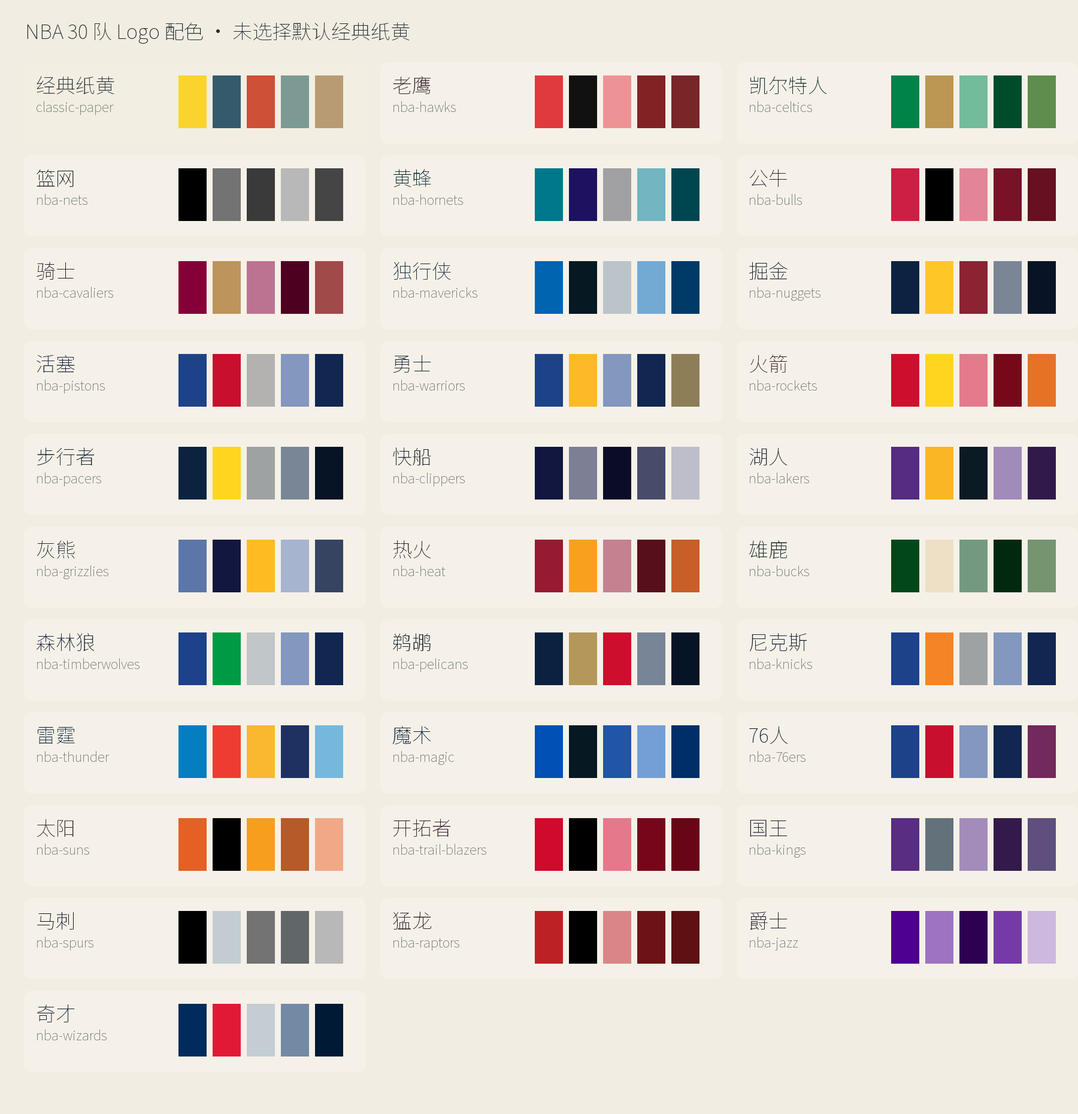
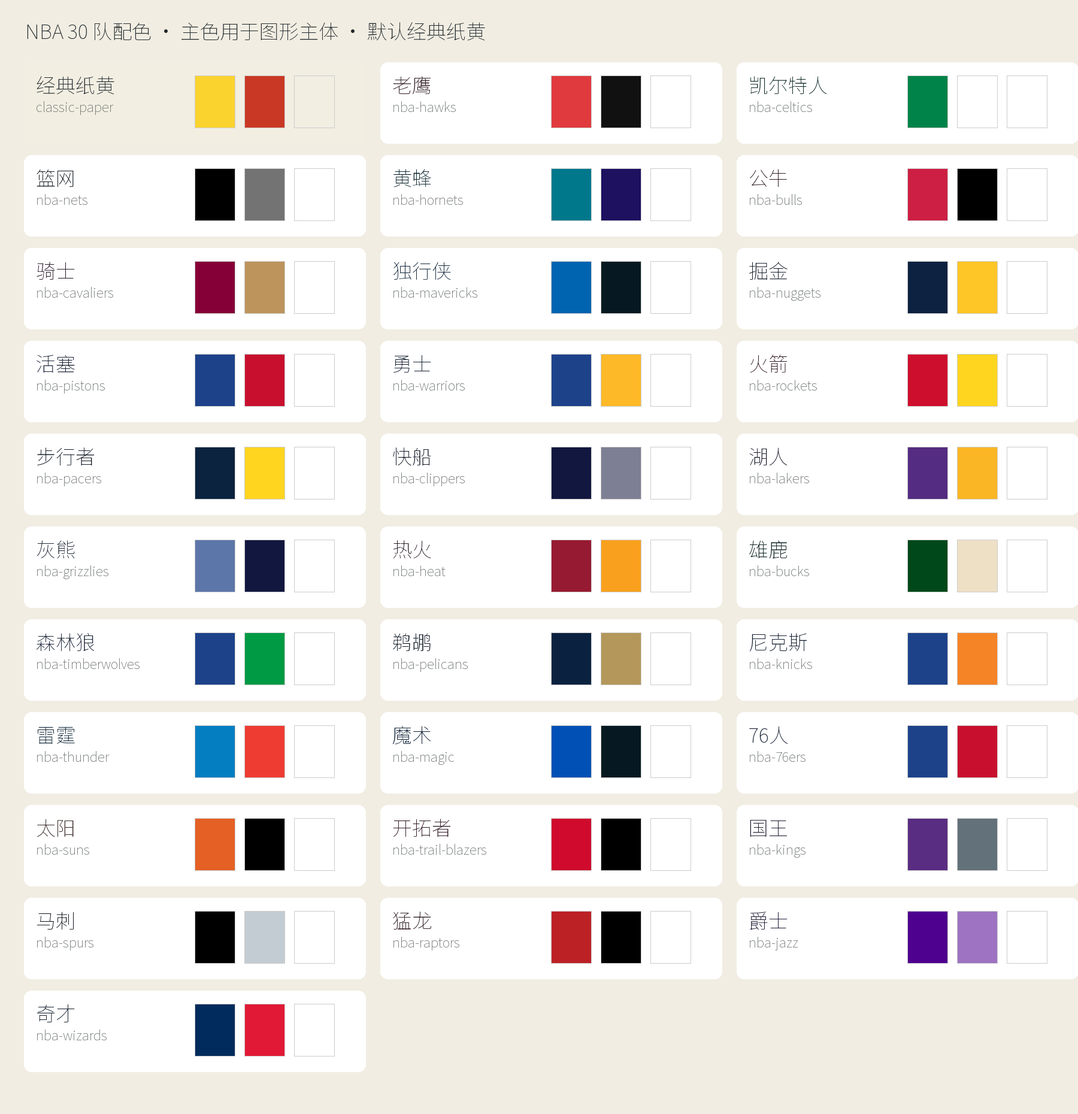
v2.3: keep every table in one chart and unify combo/scatter rendering

diff --git a/scripts/make_video.py b/scripts/make_video.py
@@ -60,6 +60,20 @@ def plan(table,chart,theme,palette,metric,unit,auto_theme=False):
   if chart not in ('auto','line'):raise ValueError('Chart incompatible with series table')
   data=[{'x':int(r[0]),**{f'v{j}':str(r[j]) for j in range(1,len(columns))}} for r in rows];values=[number(r[j]) for r in rows for j in range(1,len(columns))]
   return {**common,'chart_type':'line','data':data,'x_axis':{'field':'x','label':str(columns[0])},'y_axis':{**nice_axis(values),'label':ylabel},'series':[{'name':str(columns[j]),'field':f'v{j}'} for j in range(1,len(columns))],'theme':title('历年数值变化')},'时间序列共用同一尺度'
+ if len(columns)==3:
+  vals=[[number(r[j]) for r in rows] for j in (1,2)]
+  percent=[all(str(r[j]).strip().endswith('%') for r in rows) or '%' in str(columns[j]) for j in (1,2)]
+  chosen=chart if chart!='auto' else 'combo' if percent.count(True)==1 and not any(percent[:1]) else 'scatter'
+  data=[{'name':str(r[0]),'v1':str(r[1]).strip().rstrip('%'),'v2':str(r[2]).strip().rstrip('%')} for r in rows]
+  axes=[{**nice_axis(v,chosen=='combo'),'field':f'v{j+1}','label':str(columns[j+1]),'value_suffix':'%' if percent[j] else ''} for j,v in enumerate(vals)]
+  if chosen=='combo':
+   if min(vals[0])<0:raise ValueError('Negative bars require an explicit signed axis; retain both metrics in one chart')
+   from make_paper import load_palette
+   colors=load_palette(palette)
+   if percent[1]:axes[1]['suffix']='%'
+   return {**common,'chart_type':'combo','data':data,'x_axis':{'field':'name','type':'category','label':''},'y_axis':axes[0],'right_axis':axes[1],'series':[{'role':'bar','field':'v1','name':str(columns[1]),'color':colors['primary'],'material':'accent'},{'role':'line','field':'v2','name':str(columns[2]),'color':colors['secondary'],'value_suffix':'%' if percent[1] else '', 'show_values':True}],'theme':title('双指标对比')},'整表单图：两项指标叠加，共用类别轴，各自标明尺度'
+  if chosen=='scatter':return {**common,'chart_type':'scatter','data':data,'category_field':'name','x_axis':axes[0],'y_axis':axes[1],'theme':title('双指标关系')},'整表单图：两个数值编码为横纵位置，保留对象名称'
+  raise ValueError('Three-column table must retain both metrics in one combo/scatter scene; do not split or drop a column')
  if len(columns)==2:
   vals=[number(r[1]) for r in rows];shares=('占比' in str(columns[1]) or '%' in str(columns[1]) or '比例' in str(columns[1]) or unit=='%') and abs(sum(vals)-100)<.1 and min(vals)>=0
   chosen=chart if chart!='auto' else 'pie' if shares and len(rows)<=8 else 'bar';data=[{'name':str(r[0]),'value':str(r[1]).rstrip('%')} for r in rows]
@@ -71,7 +85,7 @@ def plan(table,chart,theme,palette,metric,unit,auto_theme=False):
  raise ValueError('Complex data needs a verified normalized scene; never silently substitute a chart')
 
 def main():
- ap=argparse.ArgumentParser();ap.add_argument('--table',required=True);ap.add_argument('--out');ap.add_argument('--work',required=True);ap.add_argument('--chart',choices=['auto','line','bar','pie','packed_circle'],default='auto');ap.add_argument('--cache');ap.add_argument('--no-theme',action='store_true');ap.add_argument('--theme');ap.add_argument('--palette',default='classic-paper');ap.add_argument('--metric');ap.add_argument('--unit');ap.add_argument('--preview-only',action='store_true');ap.add_argument("--auto-theme",action="store_true",help="Only when the user explicitly delegates title selection");a=ap.parse_args()
+ ap=argparse.ArgumentParser();ap.add_argument('--table',required=True);ap.add_argument('--out');ap.add_argument('--work',required=True);ap.add_argument('--chart',choices=['auto','line','bar','pie','packed_circle','combo','scatter'],default='auto');ap.add_argument('--cache');ap.add_argument('--no-theme',action='store_true');ap.add_argument('--theme');ap.add_argument('--palette',default='classic-paper');ap.add_argument('--metric');ap.add_argument('--unit');ap.add_argument('--preview-only',action='store_true');ap.add_argument("--auto-theme",action="store_true",help="Only when the user explicitly delegates title selection");a=ap.parse_args()
  started=time.perf_counter();work=Path(a.work).resolve();work.mkdir(parents=True,exist_ok=True);scripts=Path(__file__).resolve().parent;path=Path(a.table);shared=Path(a.cache or os.environ.get('VOX_VIDEO_CACHE',str(Path.home()/'Documents/Codex/.vox-video-cache' if (Path.home()/'Documents/Codex').is_dir() else Path.home()/'.cache/vox-data-video'))).resolve();shared.mkdir(parents=True,exist_ok=True)
  if path.suffix.lower()=='.json':table=json.loads(path.read_text())
  elif path.suffix.lower() in ('.csv','.tsv'):

diff --git a/scripts/scatter_chart.py b/scripts/scatter_chart.py
@@ -1,0 +1,56 @@
+"""One chart for a category and two quantitative fields; no discarded metrics."""
+import math
+from PIL import Image,ImageDraw
+from collage import Scene,ease
+
+class ScatterChart:
+ def __init__(self,cfg,textures,font):
+  self.cfg=cfg;self.rows=cfg['data'];self.s=Scene(1920,1080,textures,font);p=self.s.palette;self.colors=[p['primary']]
+  theme=cfg.get('theme',{});title=theme.get('text');self.start=1.9 if title else .9;self.reveal=float(cfg.get('reveal_seconds',6.3));self.final=None
+  if title and theme.get('source') not in ('user','user_delegated'):raise ValueError('Title requires user authorization')
+  if not self.rows:raise ValueError('Empty scatter data')
+  s=self.s;s.paper((1875,-40,100,1200),'accent',seed=84);s.paper((-40,960,660,200),'secondary',seed=53);self.bg=s.image.copy();self.title=Image.new('RGBA',(1920,1080))
+  if title:
+   s.image=self.title;size=82
+   while s.font(size,True,'headline').getlength(title)>1630:size-=1
+   s.paper((90,44,min(1720,max(1080,int(s.font(size,True,'headline').getlength(title))+80)),139),'secondary',seed=2,amplitude=12)
+   c=p['secondary'];rgb=[int(c[i:i+2],16) for i in (1,3,5)];fill=p['ink'] if sum(v*k for v,k in zip(rgb,(.2126,.7152,.0722)))>155 else p['paper']
+   s.text(title,(119,58),size,fill=fill,bold=True,role='headline');self.title=s.image.copy()
+  s.image=Image.new('RGBA',(1920,1080));cardtop=245 if title else 95;s.paper((76,cardtop,1770,1002-cardtop),'paper',seed=12,amplitude=15);s.paper((115,cardtop-14,180,30),'accent',seed=24,amplitude=5)
+  left,right,top,bottom=230,1680,365 if title else 220,865;xa,ya=cfg['x_axis'],cfg['y_axis']
+  for axis in [xa,ya]:
+   if axis['max']<=axis['min']:raise ValueError('Invalid scatter axis')
+  px=lambda v:left+(float(v)-xa['min'])/(xa['max']-xa['min'])*(right-left)
+  py=lambda v:bottom-(float(v)-ya['min'])/(ya['max']-ya['min'])*(bottom-top)
+  for v in xa['ticks']:
+   x=px(v);s.line([(x,top),(x,bottom)],p['grid'],1);s.text(f'{v:.{xa.get("precision",0)}f}',(x,bottom+22),26,fill=p['muted'],anchor='mt')
+  for v in ya['ticks']:
+   y=py(v);s.line([(left,y),(right,y)],p['grid'],1);s.text(f'{v:.{ya.get("precision",2)}f}',(left-24,y),26,fill=p['muted'],anchor='rm')
+  s.line([(left,top),(left,bottom),(right,bottom)],p['primary'],3);s.text(ya['label'],(145,top-66),30,bold=True);s.text(xa['label'],(955,946),30,bold=True,anchor='mt');self.stages=[s.image.copy()]
+  self.positions=[];occupied=[]
+  for row in self.rows:
+   xv,yv=float(row[xa['field']]),float(row[ya['field']])
+   if not math.isfinite(xv+yv) or not xa['min']<=xv<=xa['max'] or not ya['min']<=yv<=ya['max']:raise ValueError('Nonfinite or out-of-range scatter value')
+   self.positions.append((px(xv),py(yv)))
+  for i,row in enumerate(self.rows):
+   x,y=self.positions[i];name=str(row[cfg.get('category_field','name')]);detail=f"{row[xa['field']]}{xa.get('value_suffix','')} · {row[ya['field']]}{ya.get('value_suffix','')}";width=max(s.font(29,True).getlength(name),s.font(24).getlength(detail));height=65
+   candidates=cfg.get('label_offsets',{}).get(str(i))
+   offsets=[candidates] if candidates else [(22,-30),(22,20),(-width-22,-30),(-width-22,-75),(22,-75),(-width/2,25),(-width/2,-85)]
+   chosen=None
+   for dx,dy in offsets:
+    box=(x+dx,y+dy,x+dx+width,y+dy+height)
+    if not (110<=box[0] and box[2]<=1800 and top-12<=box[1] and box[3]<930):continue
+    if any(not(box[2]+8<a or box[0]-8>c or box[3]+6<b or box[1]-6>d) for a,b,c,d in occupied):continue
+    if any(box[0]-13<ox<box[2]+13 and box[1]-13<oy<box[3]+13 for k,(ox,oy) in enumerate(self.positions) if k!=i):continue
+    chosen=box;break
+   if chosen is None:raise ValueError(f'Label placement needs explicit label_offsets for {name}; do not omit it or split charts')
+   occupied.append(chosen);s.image=self.stages[-1].copy();bx,by,ex,ey=chosen
+   target=(max(bx,min(ex,x)),max(by,min(ey,y)))
+   if math.dist((x,y),target)>30:s.line([(x,y),target],p['muted'],1)
+   s.dot((x,y),13,p['secondary']);s.dot((x,y),9,p['primary']);s.text(name,(bx,by),29,bold=True,fill=p['primary']);s.text(detail,(bx,by+35),24,fill=p['ink']);self.stages.append(s.image.copy())
+ def frame(self,t):
+  if self.final is not None and t>=self.start+self.reveal:return self.final
+  beat=math.floor(t*12)/12;progress=max(0,min(1,(beat-self.start)/self.reveal));n=min(len(self.rows),int(progress*len(self.rows)))
+  im=self.bg.copy();im.alpha_composite(self.title,(-int(1750*(1-ease((beat-.05)/.6))),0));im.alpha_composite(self.stages[n],(0,int(1050*(1-ease((beat-(.75 if self.cfg.get('theme',{}).get('text') else .1))/.7)))))
+  if progress>=1:self.final=im
+  return im

diff --git a/scripts/video_templates.py b/scripts/video_templates.py
@@ -38,7 +38,8 @@ class ChartVideo:
   return self.left+(i+.5)/len(self.rows)*(self.right-self.left)
  def _prepare(self):
   s,p=self.s,self.p
-  s.begin();s.paper((1875,-80,130,1240),'dark',seed=84,amplitude=16);s.paper((-50,930,690,220),'accent',seed=53,amplitude=16);self.bg=s.image.copy()
+  team=p.get('id','').startswith('nba-')
+  s.begin();s.paper((1875,-80,130,1240),'accent' if team else 'dark',seed=84,amplitude=16);s.paper((-50,930,690,220),'accent',seed=53,amplitude=16);self.bg=s.image.copy()
   self.title_layers=[]
   if self.has_title:
    lines=self.cfg.get('title_lines') or [self.cfg['theme']['text']]
@@ -54,7 +55,7 @@ class ChartVideo:
     box=((1920-width)//2 if len(lines)==1 else 92,65,width,110) if i==0 else (101,191,width,73)
     if self.editorial:
      box=(92,35,width,88) if i==0 and len(lines)>1 else (92,140 if i else 45,min(1690,max(width,1080)),136)
-    material=self.cfg.get('title_materials',['dark','accent'])[i]
+    material=self.cfg.get('title_materials',[p.get('title_material','secondary') if team else 'dark','accent'])[i]
     base=p['ink'] if material=='dark' else p['secondary'] if material=='secondary' else p['primary']
     lum=sum(v*k for v,k in zip(ImageColor.getrgb(base),(.2126,.7152,.0722)));title_fill=p['ink'] if lum>155 else p['paper']
     s.paper(box,material,seed=2+i*2,amplitude=11);s.text(line,(box[0]+30,box[1]+10),size,fill=title_fill,bold=True,role=role);self.title_layers.append(s.image.copy())
@@ -106,7 +107,7 @@ class ChartVideo:
   if axis['min']!=0:raise ValueError('Bar axis must start at zero')
   self.left,self.right=480,1590
   self.bar_height=min(44,(self.bottom-self.top)/len(self.rows)*.6)
-  self.colors=[self.p['ink']];positions=[]
+  self.colors=[self.p['primary'] if self.p.get('id','').startswith('nba-') else self.p['ink']];positions=[]
   for i,row in enumerate(self.rows):
    v=float(row[cfg['value_field']])
    if not math.isfinite(v) or not 0<=v<=axis['max']:raise ValueError('Invalid bar value')
@@ -143,10 +144,18 @@ class ChartVideo:
     while f.getlength(text)>2*radius*.65*math.sin(math.radians(span/2))*.9 and f.size>32:f=s.font(f.size-1,True,'number')
    self.pie_labels.append((b,text,(x,y),f,fill,leader))
  def value_label(self,v):return str(v) if self.cfg.get('preserve_value_labels') else f'{float(v):.{self.cfg.get("value_precision",2)}f}'
+ def draw_bar(self,im,x,y):
+  width=max(0,int(x-self.left));height=max(1,int(self.bar_height))
+  if not width:return
+  key=('horizontal',width,height)
+  if key not in self.bar_tiles:
+   material='accent' if self.p.get('id','').startswith('nba-') else 'dark'
+   self.bar_tiles[key]=self.s.textures[material].resize((width,height),Image.Resampling.BILINEAR)
+  im.alpha_composite(self.bar_tiles[key],(int(self.left),int(y-self.bar_height/2)))
  def _node(self,im,j,i):
   row=self.rows[i];series=self.series[j];x,y=self.positions[j][i];color=self.colors[j];d=ImageDraw.Draw(im)
   if self.kind=='bar':
-   d.rectangle((self.left,y-self.bar_height/2,x,y+self.bar_height/2),fill=color)
+   self.draw_bar(im,x,y)
    d.text((x+16,y),self.value_label(row[series['field']])+self.cfg.get('value_suffix',''),font=self.s.font(27,True),fill=color,anchor='lm')
    return
   if series.get('role')=='bar':
@@ -198,7 +207,7 @@ class ChartVideo:
     if index+1<total and (self.kind=='line' or series.get('role')=='line'):
      a,b=self.positions[j][index:index+2];d.line([a,(a[0]+(b[0]-a[0])*part,a[1]+(b[1]-a[1])*part)],fill=self.colors[j],width=6)
   else:
-   pos=progress*total;index=min(total-1,int(pos));part=[0,.12,.32,.58,.82,1][min(5,int((pos-index)*6))];page=self.stage(index).copy();x,y=self.positions[0][index];d=ImageDraw.Draw(page);d.rectangle((self.left,y-self.bar_height/2,self.left+(x-self.left)*part,y+self.bar_height/2),fill=self.colors[0])
+   pos=progress*total;index=min(total-1,int(pos));part=[0,.12,.32,.58,.82,1][min(5,int((pos-index)*6))];page=self.stage(index).copy();x,y=self.positions[0][index];self.draw_bar(page,self.left+(x-self.left)*part,y)
   return self._compose(page,t)
  def _pie_frame(self,progress,t=100):
   page=self.chart.copy();d=ImageDraw.Draw(page);end=-90+360*progress

diff --git a/scripts/render_video.py b/scripts/render_video.py
@@ -6,6 +6,8 @@ import PIL
 from PIL import Image
 from video_templates import ChartVideo
 from packed_circle import PackedVideo
+from combined_chart import CombinedChart
+from scatter_chart import ScatterChart
 
 def main():
  ap=argparse.ArgumentParser();ap.add_argument('--scene',required=True);ap.add_argument('--out');ap.add_argument('--cache',required=True);ap.add_argument('--font');ap.add_argument('--encoder');ap.add_argument('--backend',choices=['stream','png'],default='stream');ap.add_argument('--preview-only',action='store_true');ap.add_argument('--report');args=ap.parse_args()
@@ -24,7 +26,7 @@ def main():
   subprocess.run(cmd,check=True,stdout=subprocess.DEVNULL)
  font=Path(args.font).resolve() if args.font else scripts.parent/'assets/fonts/NotoSansSC.ttf'
  if not font.is_file():raise RuntimeError('Missing bundled font; install the complete skill. Do not silently substitute font.')
- scene=(PackedVideo if cfg['chart_type']=='packed_circle' else ChartVideo)(cfg,paper,font)
+ scene=({'packed_circle':PackedVideo,'combo':CombinedChart,'scatter':ScatterChart}.get(cfg['chart_type'],ChartVideo))(cfg,paper,font)
  if duration<scene.start+scene.reveal+.5:raise ValueError('Duration must allow complete data reveal and reading hold')
  def frame(t):
   im=scene.frame(t)
@@ -64,7 +66,7 @@ def main():
   folder=cache/('frames-'+hashlib.sha256(str(out).encode()).hexdigest()[:12]);folder.mkdir(exist_ok=True)
   for i in range(count):frame(i/fps).convert('RGB').save(folder/f'frame_{i:06d}.png')
   render_seconds=time.perf_counter()-encoding_started;t0=time.perf_counter();subprocess.run([str(encoder),str(folder),str(out),str(fps)],check=True);encoder_seconds=time.perf_counter()-t0
- finished=time.perf_counter();report={'renderer_version':'2.2','renderer_sha256':hashlib.sha256((scripts/'video_templates.py').read_bytes()+(scripts/'collage.py').read_bytes()+(scripts/'make_paper.py').read_bytes()+(scripts/'packed_circle.py').read_bytes()).hexdigest(),'scene_sha256':hashlib.sha256(Path(args.scene).read_bytes()).hexdigest(),'font_sha256':hashlib.sha256(font.read_bytes()).hexdigest(),'role_fonts_sha256':{p.name:hashlib.sha256(p.read_bytes()).hexdigest() for p in (scripts.parent/'assets/fonts').glob('*.ttf')},'pillow_version':PIL.__version__,'palette_id':scheme,'series_colors':scene.colors,'backend':args.backend,'frames':count,'width':w,'height':h,'fps':fps,'duration':duration,'prepare_seconds':round(prepared-started,3),'compile_seconds':round(compile_seconds,3),'render_seconds':round(render_seconds,3),'render_encode_seconds':round(finished-encoding_started,3),'total_seconds':round(finished-started,3),'temporary_frame_files':0 if args.backend=='stream' else count,'previews':str(previews),'output':str(out)}
+ finished=time.perf_counter();report={'renderer_version':'2.3','renderer_sha256':hashlib.sha256((scripts/'video_templates.py').read_bytes()+(scripts/'collage.py').read_bytes()+(scripts/'make_paper.py').read_bytes()+(scripts/'packed_circle.py').read_bytes()+(scripts/'combined_chart.py').read_bytes()+(scripts/'scatter_chart.py').read_bytes()).hexdigest(),'scene_sha256':hashlib.sha256(Path(args.scene).read_bytes()).hexdigest(),'font_sha256':hashlib.sha256(font.read_bytes()).hexdigest(),'role_fonts_sha256':{p.name:hashlib.sha256(p.read_bytes()).hexdigest() for p in (scripts.parent/'assets/fonts').glob('*.ttf')},'pillow_version':PIL.__version__,'palette_id':scheme,'series_colors':scene.colors,'backend':args.backend,'frames':count,'width':w,'height':h,'fps':fps,'duration':duration,'prepare_seconds':round(prepared-started,3),'compile_seconds':round(compile_seconds,3),'render_seconds':round(render_seconds,3),'render_encode_seconds':round(finished-encoding_started,3),'total_seconds':round(finished-started,3),'temporary_frame_files':0 if args.backend=='stream' else count,'previews':str(previews),'output':str(out)}
  if args.report:Path(args.report).write_text(json.dumps(report,ensure_ascii=False,indent=2))
  print(json.dumps(report,ensure_ascii=False))
 if __name__=='__main__':main()

diff --git a/scripts/combined_chart.py b/scripts/combined_chart.py
@@ -1,0 +1,40 @@
+"""Shared categorical combo renderer: stepped bars and line in one plot."""
+import math
+from PIL import Image,ImageDraw
+from video_templates import ChartVideo
+
+class CombinedChart(ChartVideo):
+ def px(self,row,i):
+  if self.cfg.get('x_axis',{}).get('type')!='category':return super().px(row,i)
+  return self.left+(i+.5)/len(self.rows)*(self.right-self.left)
+ def bar_width(self):return min(190,(self.right-self.left)/len(self.rows)*.46)
+ def _bar(self,im,i,fraction):
+  x,y=self.positions[0][i];w=max(1,int(self.bar_width()));h=int((self.bottom-y)*fraction)
+  if h<=0:return
+  series=self.series[0];material=series.get('materials',{}).get(str(self.rows[i][self.cfg['x_axis']['field']]),series.get('material','accent'))
+  key=(material,w,h)
+  if key not in self.bar_tiles:self.bar_tiles[key]=self.s.textures[material].resize((w,h),Image.Resampling.BILINEAR)
+  im.alpha_composite(self.bar_tiles[key],(int(x-w/2),int(self.bottom-h)))
+ def _node(self,im,j,i):
+  x,y=self.positions[j][i];series=self.series[j];d=ImageDraw.Draw(im)
+  if j==0:
+   self._bar(im,i,1);d.text((x,y-20),self.value_label(self.rows[i][series['field']])+series.get('value_suffix',''),font=self.s.font(48 if len(self.rows)<=4 else 35,True,'number'),fill=self.colors[j],anchor='ms')
+  else:
+   d.ellipse((x-11,y-11,x+11,y+11),fill=self.p['paper']);d.ellipse((x-7,y-7,x+7,y+7),fill=self.colors[j])
+   if series.get('show_values',True):d.text((x+self.bar_width()/2+20,y),self.value_label(self.rows[i][series['field']])+series.get('value_suffix',''),font=self.s.font(43 if len(self.rows)<=4 else 30,True,'number'),fill=self.colors[j],anchor='lm')
+ def frame(self,t):
+  if t>=self.start+self.reveal:return super().frame(t)
+  page=self.chart.copy();beat=math.floor(t*12)/12;n=len(self.rows);stagger=min(.5,1.5/max(1,n-1))
+  for i in range(n):
+   q=max(0,min(1,(beat-self.start-i*stagger)/1.1));step=[0,.12,.32,.58,.82,1][min(5,int(q*6))]
+   if q>=1:self._node(page,0,i)
+   elif step:self._bar(page,i,step)
+  line_start=1.1+(n-1)*stagger;q=max(0,min(1,(beat-self.start-line_start)/max(.5,self.reveal-line_start)))
+  if q>0:
+   pos=q*(n-1);index=min(n-1,int(pos));points=self.positions[1][:index+1]
+   if index<n-1:
+    a,b=self.positions[1][index:index+2];fraction=pos-index;points=points+[(a[0]+(b[0]-a[0])*fraction,a[1]+(b[1]-a[1])*fraction)]
+   d=ImageDraw.Draw(page)
+   if len(points)>1:d.line(points,fill=self.p['paper'],width=11);d.line(points,fill=self.colors[1],width=5)
+   for i in range(index+1):self._node(page,1,i)
+  return self._compose(page,t)

diff --git a/scripts/check_environment.py b/scripts/check_environment.py
@@ -8,4 +8,4 @@ for name in ['PIL','numpy']:
  try:m=__import__(name);modules[name]={'available':True,'version':m.__version__}
  except ImportError:modules[name]={'available':False}
 codec='swift' if platform.system()=='Darwin' and shutil.which('swiftc') else 'ffmpeg' if shutil.which('ffmpeg') else None
-print(json.dumps({'renderer_version':'2.2','python':sys.version.split()[0],'os':platform.system(),'modules':modules,'bundled_font':font.is_file(),'font_sha256':hashlib.sha256(font.read_bytes()).hexdigest() if font.is_file() else None,'encoder':codec,'ready':all(x['available'] for x in modules.values()) and all((root/'assets/fonts'/name).is_file() for name in ['NotoSansSC.ttf','NotoSerifSC.ttf','BarlowCondensed-Bold.ttf']) and codec is not None},ensure_ascii=False))
+print(json.dumps({'renderer_version':'2.3','python':sys.version.split()[0],'os':platform.system(),'modules':modules,'bundled_font':font.is_file(),'font_sha256':hashlib.sha256(font.read_bytes()).hexdigest() if font.is_file() else None,'encoder':codec,'ready':all(x['available'] for x in modules.values()) and all((root/'assets/fonts'/name).is_file() for name in ['NotoSansSC.ttf','NotoSerifSC.ttf','BarlowCondensed-Bold.ttf']) and codec is not None},ensure_ascii=False))

diff --git a/references/color-palettes.md b/references/color-palettes.md
@@ -9,7 +9,7 @@
 | 球队 | ID | 主色 / 辅色 | 来源 |
 |---|---|---|---|
 | 老鹰 | `nba-hawks` | #E03A3E / #111111 | [官方 Logo](https://cdn.nba.com/logos/nba/1610612737/primary/L/logo.svg) |
-| 凯尔特人 | `nba-celtics` | #008348 / #BB9753 | [官方 Logo](https://cdn.nba.com/logos/nba/1610612738/primary/L/logo.svg) |
+| 凯尔特人 | `nba-celtics` | #008348 / #FFFFFF | [官方 Logo](https://cdn.nba.com/logos/nba/1610612738/primary/L/logo.svg) |
 | 篮网 | `nba-nets` | #000000 / #737373 | [官方 Logo](https://cdn.nba.com/logos/nba/1610612751/primary/L/logo.svg) |
 | 黄蜂 | `nba-hornets` | #00788C / #1D1160 | [官方 Logo](https://cdn.nba.com/logos/nba/1610612766/primary/L/logo.svg) |
 | 公牛 | `nba-bulls` | #CD1F43 / #000000 | [官方 Logo](https://cdn.nba.com/logos/nba/1610612741/primary/L/logo.svg) |
@@ -42,3 +42,7 @@
 完整角色和分类色在 palettes.json，预览在 assets/palette-preview.png。系列身份全片一致；跨球队数据若要每队自身色，需用户选择该方案，否则沿本次选定主题配色。正负/连续量不使用无序分类色。纸张与跳切风格不随配色改变。
 
 legacy-palettes.json 仅保留旧场景复现兼容，不出现在新配色菜单。用户明确复现森林橙等旧片时仍可执行旧 ID；这个兼容例外不把旧方案重新加入 NBA 菜单。
+
+## 球队色必须在主体中可见
+
+主色用于主要条形、折线或其他数据主体；辅色用于标题、第二指标或纸层，不能把二者都压缩成胶带装饰。墨色只负责文字、坐标等辅助部分。76人用官方蓝 #1D428A 与红 #C8102E，白纸；凯尔特人用绿 #008348 与白 #FFFFFF，Logo中的金色只作次要可选点缀。纸纹保留轻微色差，不能将绿色压暗成近黑。

diff --git a/references/single-chart.md b/references/single-chart.md
@@ -1,0 +1,11 @@
+# 整张表只制作一张图表
+
+用户要求的是全部数据进入同一张图表，不是只要求一个视频文件。左右两张图、上下两张图、先播放指标A再播放独立指标B，都不符合要求。
+
+- 同一组球队/球员的数量与百分比：一组柱形叠加一组折线，共用类别轴，左右轴分别写明指标与单位。不能用次数轴读百分比。类别之间的连线只用于系列比较，不虚构时间趋势。
+- 两个连续数值：同一张散点图，一点对应一个对象；姓名标签与横纵轴保留全部关系。未明确要求不能自动计算差值并增加结论。
+- 完整组成：同一张饼图，扇区显示百分比，右侧只放名称和色块。
+- 多对象随时间：同一张多系列折线或动态圆堆，保留对象身份与时期。
+- 更多指标或不支持的数据结构：设计一个能容纳全部指标的单图，例如分组、堆叠、热图或带额外视觉编码的散点图。未经授权不能删除字段，也不能为了套现有模板拆成多张图。不要把没有合理共同语义的数据硬叠在一根轴上。
+
+发布前核对输入有效列、对象行与最终图中的编码对应。存在数据缺失、标签重叠或模板容量不足时应处理具体问题；不能以提速为由省略数据。现成模板支持的任务直接生成，避免重新研究风格。

diff --git a/references/one-pass-workflow.md b/references/one-pass-workflow.md
@@ -1,3 +1,5 @@
+整表单图规则优先：见 [single-chart.md](single-chart.md)。禁止未经用户要求拆为多张图或多个面板。
+
 # 整段制作提速
 
 入口是 `scripts/make_video.py`。先理解用户表格及指定图形，常见输入直接执行该入口，不临时重写场景。JSON 是 `{columns:[...],rows:[[...],...]}`；也支持 CSV/TSV、单个可用工作表的 XLSX，以及 macOS 下规整清晰的表格截图。
@@ -21,3 +23,5 @@ python scripts/make_video.py --table input.png --work work/job --out outputs/vid
 普通出片不开发模板、不发布仓库，解码与关键帧通过一次后立即交付。各次询问与跳过授权独立，详见 delivery-speed.md。自动规划默认 editorial＋12fps 分拍，影片30fps，完整字体随包。
 
 普通出片不开发模板、不发布仓库，解码与关键帧通过一次后立即交付。各次询问与跳过授权独立，详见 delivery-speed.md。自动规划默认 editorial＋12fps 分拍，影片30fps，完整字体随包。
+
+入口现支持 --chart combo / scatter。三列类别表保留两项指标：第二数值列带%时默认柱线组合，其他双连续数值默认散点。无法支持的字段结构明确报错，不删列或拆图。

diff --git a/references/fast-rendering.md b/references/fast-rendering.md
@@ -1,3 +1,5 @@
+整表单图规则优先：见 [single-chart.md](single-chart.md)。禁止未经用户要求拆为多张图或多个面板。
+
 # 常用图表快速制作
 
 优先使用 one-pass-workflow.md 的 make_video.py，让读表、选图和参数生成也进入统一自动流程。
@@ -69,3 +71,5 @@ python scripts/render_video.py --scene work/scene.json --cache work/video-cache 
 饼图百分比默认直接放扇区，右侧图例仅色块＋名称；小扇区用近邻引导线。visual_profile=editorial 与 motion_steps_per_second=12 为新入口默认。title_materials 可指定 dark/accent/secondary 两行材料；主标题字体角色见 typography.md。
 
 饼图百分比默认直接放扇区，右侧图例仅色块＋名称；小扇区用近邻引导线。visual_profile=editorial 与 motion_steps_per_second=12 为新入口默认。title_materials 可指定 dark/accent/secondary 两行材料；主标题字体角色见 typography.md。
+
+combo 使用 combined_chart.py，按拍生长柱形后描绘折线；scatter 使用 scatter_chart.py，在同一坐标系保留所有名称和两项数值。散点标签放不下时提供 scene.label_offsets（行号字符串→[dx,dy]），不能删除标签或拆面板。

diff --git a/README.md b/README.md
@@ -10,6 +10,9 @@
 
 ## 本版改进
 
+**一张表的全部数据必须在同一张图表中呈现。** 多指标不拆成多面板或轮播独立图；只有用户本次明确要求拆图时例外。数量＋命中率默认同图叠加柱线，两个连续指标可用散点。
+
+
 - 普通制作复用固定模板，修改数据与参数；把开发、基准测试和仓库维护从出片流程移开。保留视觉质量并缩短整轮等待，不把编码秒数冒充总交付时间。
 - 饼图百分比标在扇区内，右侧只放色块和名称；小扇区用邻近引导线。
 - 标题、中文标注与数字分角色，完整开源字体和许可证随包；保留用户认可原版4K柱线工程。
